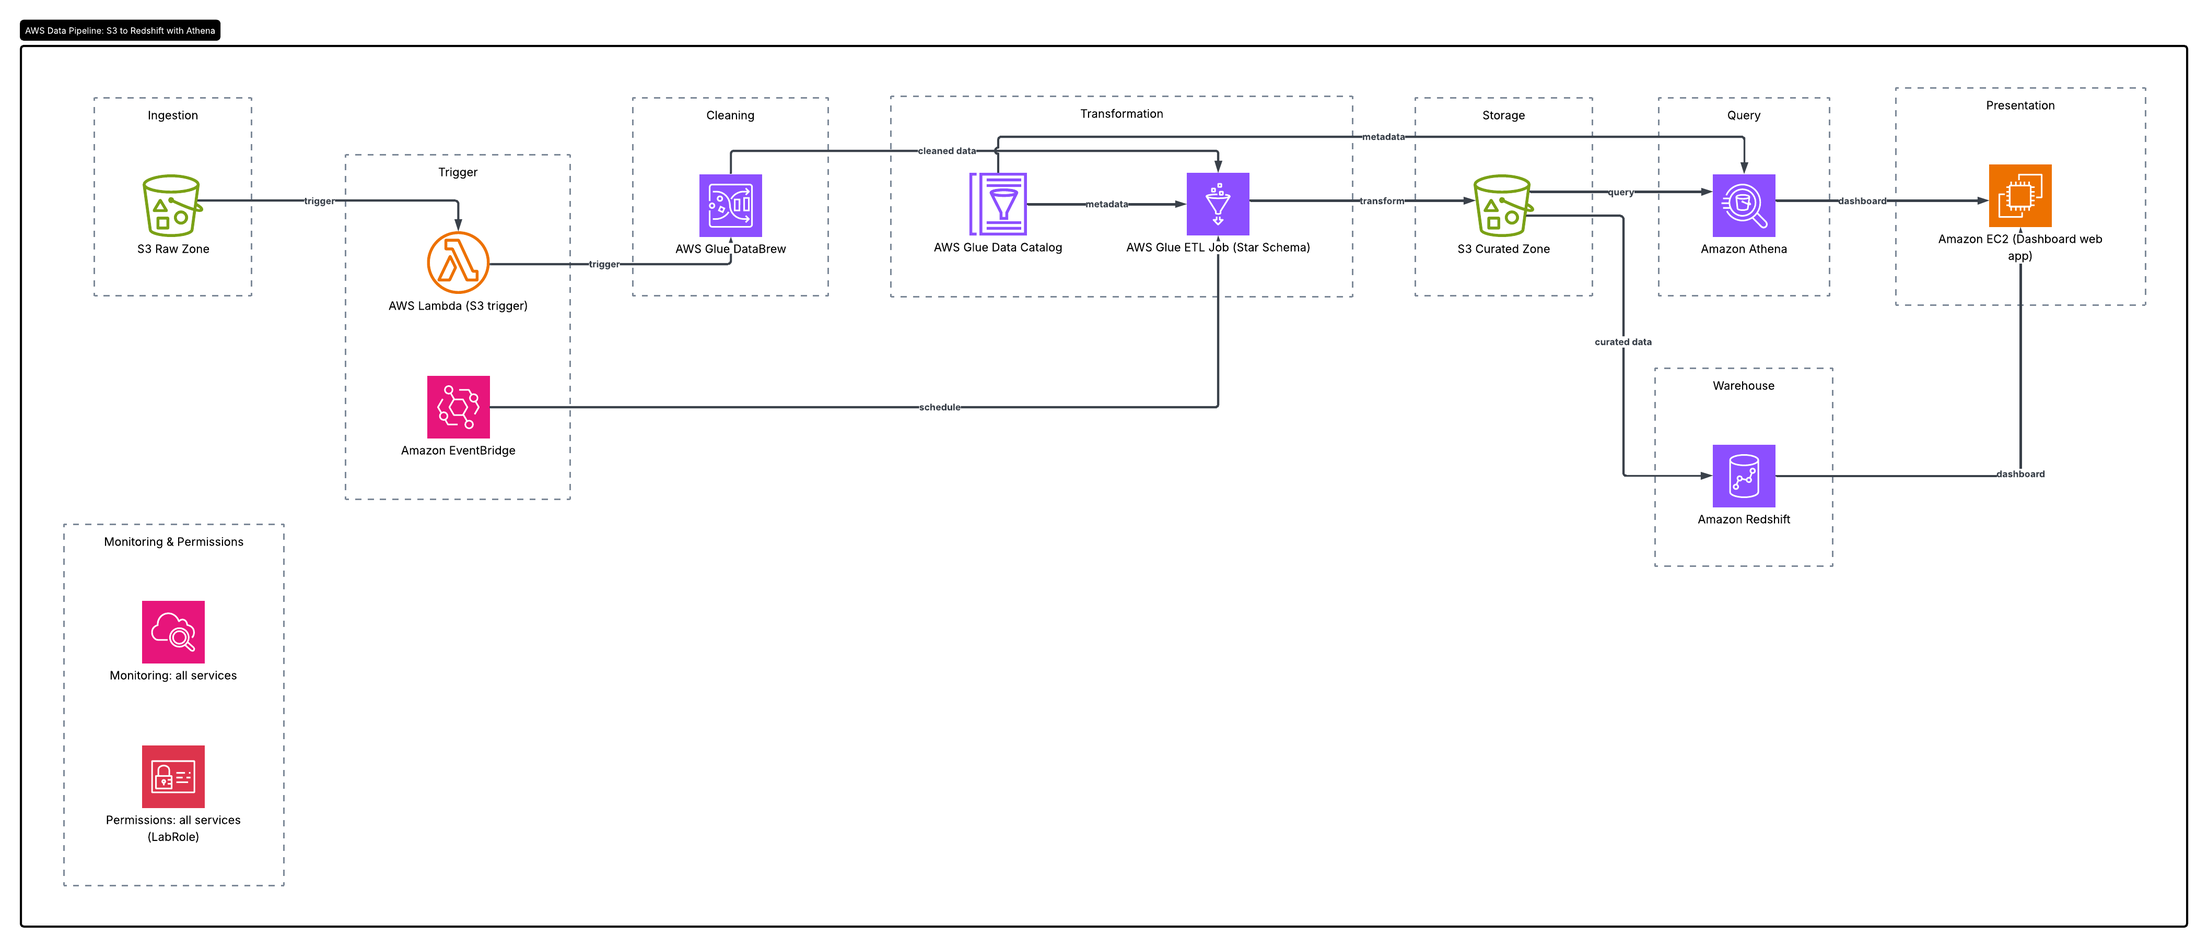
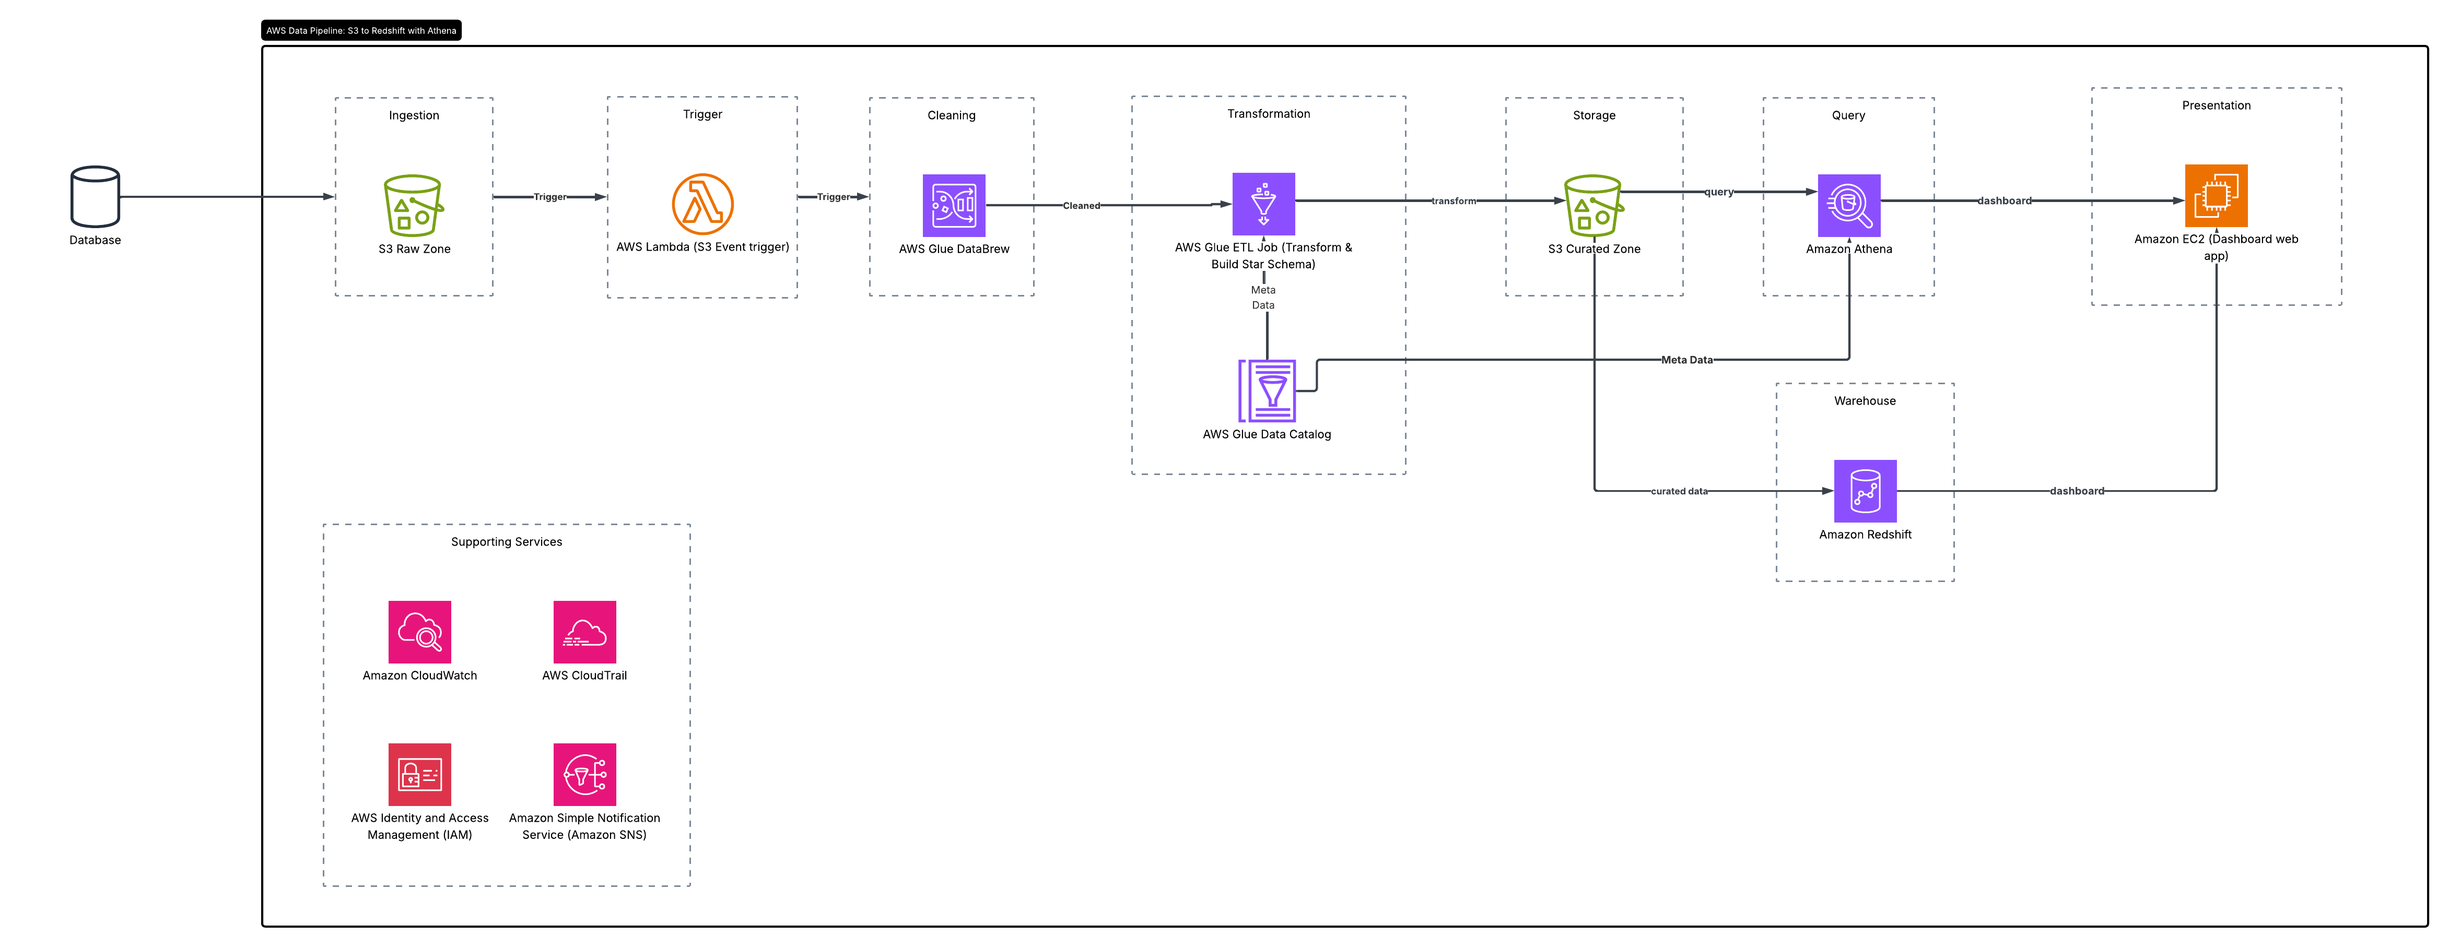
up

diff --git a/cloud/project/Final/Olytics_UseCase_Revised.md b/cloud/project/Final/Olytics_UseCase_Revised.md
@@ -8,7 +8,7 @@
 
 | ปัญหาในฉบับเดิม | เหตุผลที่ต้องแก้ | วิธีแก้ |
 |---|---|---|
-| ใช้ "Service AWS" เป็น Actor | Actor ต้องเป็นสิ่งที่อยู่ **นอกขอบเขตระบบ** แล้วมาโต้ตอบกับระบบ แต่ S3/Glue/Redshift คือส่วนประกอบของตัวระบบเอง ไม่ใช่สิ่งภายนอก การเอา service มาเป็น Actor เท่ากับบอกว่าระบบเป็น Actor ของตัวเอง ซึ่งผิดหลัก UML | ใช้ Actor ที่เป็นคนหรือระบบภายนอกจริง คือ **ผู้ดูแลระบบ** และ **ผู้ใช้งาน** (และอาจเพิ่ม Time เป็น Actor รองถ้าต้องการโชว์ automation ตามรอบเวลา) |
+| ใช้ "Service AWS" เป็น Actor | Actor ต้องเป็นสิ่งที่อยู่ **นอกขอบเขตระบบ** แล้วมาโต้ตอบกับระบบ แต่ S3/Glue/Redshift คือส่วนประกอบของตัวระบบเอง ไม่ใช่สิ่งภายนอก การเอา service มาเป็น Actor เท่ากับบอกว่าระบบเป็น Actor ของตัวเอง ซึ่งผิดหลัก UML | ใช้ Actor ที่เป็นคนหรือระบบภายนอกจริง คือ **ผู้ดูแลระบบ** และ **ผู้ใช้งาน** |
 | UC-01 ถึง UC-05 แยกเป็น 5 use case ตามขั้นตอนภายใน | เป็น *functional decomposition* — เอาขั้นตอนทำงานภายในระบบมาวาดเป็น use case ทีละสเต็ป แต่หลักคือ use case ต้องเป็นหน่วยที่ Actor เริ่มแล้วได้ผลลัพธ์ที่มีคุณค่า *จบในตัวเอง* ขั้นตอนย่อยเช่น "ทำความสะอาดข้อมูล" อย่างเดียวไม่จบในตัวเอง ต้องแปลงและจัดเก็บต่อถึงจะมีประโยชน์จริง | รวมเป็น use case เดียวคือ **ประมวลผลข้อมูลอัตโนมัติ** ส่วนราย 5 ขั้นตอนเดิมย้ายไปอยู่ใน Normal Flow ของตาราง Use Case Description แทน |
 | UC-06 (สืบค้นเปรียบเทียบ Athena vs Redshift) หายไปจากรูปวาด | เป็นหนึ่งในวัตถุประสงค์หลักของโครงงาน (บทที่ 1 ข้อ 5) แต่ไม่ปรากฏใน diagram ฉบับร่างก่อนหน้า | ใส่กลับเป็น use case แยก |
 | ร่างก่อนหน้านี้ (ฉบับที่แล้ว) ยังมี "นำเข้าข้อมูลดิบ" แยกจาก "ประมวลผลข้อมูลอัตโนมัติ" | ขัดกับหลักการรวม use case ที่อธิบายไว้ข้างต้นเอง — ถ้ายึดตามหลักว่า "นำเข้าข้อมูลอย่างเดียวไม่จบในตัวเอง" ก็ต้องไม่มี use case แยกสำหรับมัน เป็นความไม่สอดคล้องที่ต้องแก้ในรอบนี้ | รวมเข้ากับ "ประมวลผลข้อมูลอัตโนมัติ" ให้เหลือ use case เดียวจริงตามหลักที่วางไว้ |
@@ -23,7 +23,6 @@
 |---|---|---|
 | ผู้ดูแลระบบ (System Administrator / Data Engineer) | Primary Actor | นำเข้าข้อมูล ตรวจสอบสถานะการทำงานของ Pipeline แก้ไขข้อผิดพลาด |
 | ผู้ใช้งาน (User / นักวิเคราะห์ข้อมูล) | Primary Actor | สืบค้นข้อมูลเพื่อเปรียบเทียบ และดูผลการวิเคราะห์ผ่าน Dashboard |
-| Time (ตัวแทน Amazon EventBridge) | Secondary Actor (ไม่บังคับ) | สั่งให้ Pipeline ทำงานตามรอบเวลาที่กำหนด โดยไม่ต้องมีผู้ดูแลระบบสั่งงานด้วยมือ |
 
 ---
 
@@ -31,7 +30,7 @@
 
 | ID | ชื่อ Use Case | Actor หลัก |
 |---|---|---|
-| UC-01 | ประมวลผลข้อมูลอัตโนมัติ (Automated Data Processing) | ผู้ดูแลระบบ, Time |
+| UC-01 | ประมวลผลข้อมูลอัตโนมัติ (Automated Data Processing) | ผู้ดูแลระบบ |
 | UC-02 | ตรวจสอบสถานะการทำงาน (Monitor Pipeline Status) | ผู้ดูแลระบบ |
 | UC-03 | สืบค้นและเปรียบเทียบประสิทธิภาพ (Query and Compare Performance) | ผู้ใช้งาน |
 | UC-04 | แสดงผลการวิเคราะห์ผ่าน Dashboard (View Analytics Dashboard) | ผู้ใช้งาน |
@@ -45,9 +44,6 @@
                 ┌─────────────────────────┐
                 │                         │
 ผู้ดูแลระบบ ────┼──▶ ประมวลผลข้อมูลอัตโนมัติ │
-     │          │         ▲               │
-     │          │         │ (trigger)     │
-     │          │        Time             │
      │          │                         │
      └──────────┼──▶ ตรวจสอบสถานะการทำงาน  │
                 │                         │
@@ -58,7 +54,7 @@
                 └─────────────────────────┘
 ```
 
-หมายเหตุ: เวลาวาดจริงในเครื่องมือ (Draw.io / Lucidchart) ให้ Actor "ผู้ดูแลระบบ" อยู่ฝั่งซ้าย ลากเส้นเชื่อมไป UC-01 และ UC-02 / Actor "ผู้ใช้งาน" อยู่ฝั่งขวา ลากเส้นเชื่อมไป UC-03 และ UC-04 / ถ้าใส่ Actor "Time" ให้วางไว้มุมบนแล้วลากเส้นมาที่ UC-01 เพียงเส้นเดียว
+หมายเหตุ: เวลาวาดจริงในเครื่องมือ (Draw.io / Lucidchart) ให้ Actor "ผู้ดูแลระบบ" อยู่ฝั่งซ้าย ลากเส้นเชื่อมไป UC-01 และ UC-02 / Actor "ผู้ใช้งาน" อยู่ฝั่งขวา ลากเส้นเชื่อมไป UC-03 และ UC-04
 
 ---
 
@@ -68,15 +64,15 @@
 
 | Use Case Name | ประมวลผลข้อมูลอัตโนมัติ | ID | UC-01 |
 |---|---|---|---|
-| **Actor** | ผู้ดูแลระบบ (Primary), Time (Secondary) | | |
+| **Actor** | ผู้ดูแลระบบ (Primary) | | |
 | **Stakeholders and Interests** | ผู้ดูแลระบบ ต้องการให้ข้อมูลถูกนำเข้าและประมวลผลถูกต้องโดยไม่ต้องสั่งงานด้วยมือทุกครั้ง / ผู้ใช้งาน ต้องการให้ข้อมูลในคลังข้อมูลเป็นปัจจุบันและถูกต้องอยู่เสมอ | | |
 | **Brief Description** | Use case นี้ครอบคลุมกระบวนการนำเข้าข้อมูลดิบ ตรวจจับไฟล์ใหม่ ทำความสะอาดข้อมูล แปลงข้อมูลให้อยู่ในรูปแบบ Star Schema และจัดเก็บลงคลังข้อมูล โดยกระบวนการทั้งหมดทำงานต่อเนื่องกันโดยอัตโนมัติเมื่อมีข้อมูลชุดใหม่เข้าสู่ระบบ | | |
 
 **Normal Flow of ประมวลผลข้อมูลอัตโนมัติ**
 
-| ผู้ดูแลระบบ / Time | ระบบ |
+| ผู้ดูแลระบบ | ระบบ |
 |---|---|
-| 1. ผู้ดูแลระบบอัปโหลดไฟล์ข้อมูลชุดใหม่ (batch) เข้าสู่ S3 Raw Zone หรือถึงรอบเวลาที่ Time กำหนดไว้ | |
+| 1. ผู้ดูแลระบบดึงข้อมูลจากฐานข้อมูลต้นทาง (Database) แบ่งออกเป็นชุด (batch) แล้วอัปโหลดเข้าสู่ S3 Raw Zone | |
 | | 2. ระบบตรวจพบไฟล์ใหม่ผ่าน S3 Event Notification และส่ง Event ไปยัง Lambda |
 | | 3. Lambda เรียก Glue Job ให้เริ่มทำงาน |
 | | 4. Glue DataBrew ทำความสะอาดข้อมูล ลบข้อมูลซ้ำ และจัดการค่าว่าง |
@@ -87,12 +83,10 @@
 
 **Alternate/Exceptional Flows**
 
-- **2-a:** ไม่มีไฟล์ใหม่เข้ามาตามรอบเวลาที่กำหนด
-  - 2-a-1: ระบบไม่เริ่มกระบวนการ และรอตรวจสอบในรอบถัดไป
 - **3-a:** Glue Job มีงานอื่นกำลังทำงานอยู่ (Concurrency เต็ม)
-  - 3-a-1: ระบบบันทึกข้อผิดพลาดและแจ้งเตือนผ่าน CloudWatch ให้ผู้ดูแลระบบทราบ
+  - 3-a-1: ระบบบันทึก Log ข้อผิดพลาดผ่าน Amazon CloudWatch และส่งการแจ้งเตือนไปยังผู้ดูแลระบบผ่าน Amazon SNS
 - **5-a:** ข้อมูลมีรูปแบบผิดพลาดจนไม่สามารถแปลงได้
-  - 5-a-1: ระบบบันทึก Error Log ผ่าน CloudWatch และหยุดกระบวนการเฉพาะไฟล์นั้น
+  - 5-a-1: ระบบบันทึก Error Log ผ่าน Amazon CloudWatch และแจ้งเตือนผู้ดูแลระบบผ่าน Amazon SNS แล้วหยุดกระบวนการเฉพาะไฟล์นั้น
   - 5-a-2: ผู้ดูแลระบบตรวจสอบ Log และแก้ไขข้อมูลต้นทางก่อนนำเข้าใหม่
 
 ---
@@ -103,7 +97,7 @@
 |---|---|---|---|
 | **Actor** | ผู้ดูแลระบบ | | |
 | **Stakeholders and Interests** | ผู้ดูแลระบบ ต้องการทราบว่า Pipeline ทำงานสำเร็จหรือมีข้อผิดพลาดเกิดขึ้นที่จุดใด เพื่อแก้ไขได้ทันเวลา | | |
-| **Brief Description** | Use case นี้เป็นการตรวจสอบสถานะและ Log การทำงานของ ETL Pipeline ผ่าน Amazon CloudWatch เพื่อยืนยันความถูกต้องของการทำงาน หรือค้นหาสาเหตุเมื่อเกิดข้อผิดพลาด | | |
+| **Brief Description** | Use case นี้เป็นการตรวจสอบสถานะและ Log การทำงานของ ETL Pipeline ผ่าน Amazon CloudWatch เพื่อยืนยันความถูกต้องของการทำงาน หรือค้นหาสาเหตุเมื่อเกิดข้อผิดพลาด นอกจากนี้ยังสามารถตรวจสอบกิจกรรมการเรียกใช้ AWS API ย้อนหลังผ่าน AWS CloudTrail เพื่อวัตถุประสงค์ด้านความปลอดภัยเพิ่มเติม | | |
 
 **Normal Flow of ตรวจสอบสถานะการทำงาน**
 

diff --git a/cloud/project/Final/ai/Chapter1_Olytics.md b/cloud/project/Final/ai/Chapter1_Olytics.md
@@ -38,7 +38,7 @@
 
 > **1.3.2 ฟังก์ชันหลัก**
 
-- **ระบบนำเข้าข้อมูลดิบ :** แบ่งชุดข้อมูลต้นทางออกเป็นชุดย่อยตามช่วงเวลา แล้วทยอยนำเข้าสู่พื้นที่จัดเก็บ Raw Zone บน Amazon S3 เพื่อจำลองลักษณะการเข้ามาของข้อมูลจริงที่เกิดขึ้นอย่างต่อเนื่อง
+- **ระบบนำเข้าข้อมูลดิบ :** ดึงข้อมูลจากฐานข้อมูลต้นทาง (Database) แบ่งออกเป็นชุดย่อยตามช่วงเวลา แล้วทยอยนำเข้าสู่พื้นที่จัดเก็บ Raw Zone บน Amazon S3 เพื่อจำลองลักษณะการเข้ามาของข้อมูลจริงที่เกิดขึ้นอย่างต่อเนื่อง
 
 - **ระบบตรวจจับข้อมูลใหม่และสั่งงานอัตโนมัติ :** ตรวจจับเมื่อมีไฟล์ข้อมูลใหม่เข้าสู่ระบบ แล้วสั่งให้กระบวนการ ETL เริ่มทำงานโดยอัตโนมัติ โดยไม่ต้องสั่งงานด้วยมือ
 
@@ -67,10 +67,11 @@
 | Amazon Redshift | ทำหน้าที่เป็นคลังข้อมูล จัดเก็บ Fact Table และ Dimension Table สำหรับการวิเคราะห์ | รองรับเฉพาะ ra3.large และคลัสเตอร์ขนาดสูงสุด 2 Instance |
 | Amazon Athena | สืบค้นข้อมูลใน S3 โดยตรงแบบ Serverless เพื่อเปรียบเทียบกับ Redshift | ใช้ LabRole ได้ ไม่มีข้อจำกัดพิเศษ |
 | AWS Lambda | ตรวจจับไฟล์ใหม่ที่เข้ามาใน S3 และสั่งให้ ETL Pipeline ทำงานโดยอัตโนมัติ | รันพร้อมกันได้สูงสุด 10 Execution Environment |
-| Amazon EventBridge | ตั้งเวลาให้ Pipeline ทำงานตามรอบที่กำหนด และเชื่อมเหตุการณ์ระหว่างบริการ | ใช้ LabRole ได้ตามปกติ |
 | Amazon EC2 | ติดตั้งและให้บริการเว็บแอปพลิเคชันสำหรับแสดงผล Dashboard | รองรับ nano ถึง large เท่านั้น, รันพร้อมกันไม่เกิน 9 Instance และรวมไม่เกิน 32 vCPU |
 | Amazon CloudWatch | ติดตามการทำงานของ ETL Job และเก็บ Log เพื่อตรวจสอบข้อผิดพลาด | ใช้งานได้ตามปกติ |
+| AWS CloudTrail | บันทึกประวัติการเรียกใช้ AWS API และกิจกรรมของผู้ใช้งานในบัญชี เพื่อการตรวจสอบย้อนหลังด้านความปลอดภัย | ใช้งานได้ตามปกติ ไม่มีข้อจำกัดพิเศษ |
 | AWS IAM (LabRole) | กำหนดสิทธิ์ให้บริการต่าง ๆ เข้าถึงทรัพยากรระหว่างกันได้ | ไม่สามารถสร้าง User, Group หรือ Role ใหม่ได้ ต้องใช้ LabRole ที่เตรียมไว้ |
+| Amazon SNS | ส่งการแจ้งเตือนสถานะการทำงานของ ETL Pipeline (สำเร็จ/ล้มเหลว) ไปยังผู้ดูแลระบบ | ใช้ LabRole ได้ ไม่มีข้อจำกัดพิเศษ |
 
 สำหรับเทคโนโลยีอื่นนอกเหนือจากบริการของ AWS ที่นำมาใช้ในโครงงาน มีดังนี้
 
@@ -113,6 +114,8 @@
 - กำหนด Security Group ของ Amazon Redshift และ Amazon EC2 ให้อนุญาตการเข้าถึงเฉพาะแหล่งที่จำเป็นเท่านั้น
 
 - กำหนดสิทธิ์การเข้าถึงทรัพยากรระหว่างบริการผ่าน LabRole ตามข้อจำกัดของสภาพแวดล้อม Learner Lab
+
+- บันทึกการเรียกใช้ AWS API ทั้งหมดผ่าน AWS CloudTrail เพื่อการตรวจสอบย้อนหลังหากเกิดเหตุการณ์ผิดปกติด้านความปลอดภัย
 
 - ชุดข้อมูลต้นทางเป็นข้อมูลที่ผ่านการปกปิดตัวตนของลูกค้าและผู้ขายมาแล้วจากผู้เผยแพร่ จึงไม่มีข้อมูลส่วนบุคคลที่สามารถระบุตัวตนได้ในระบบ
 
